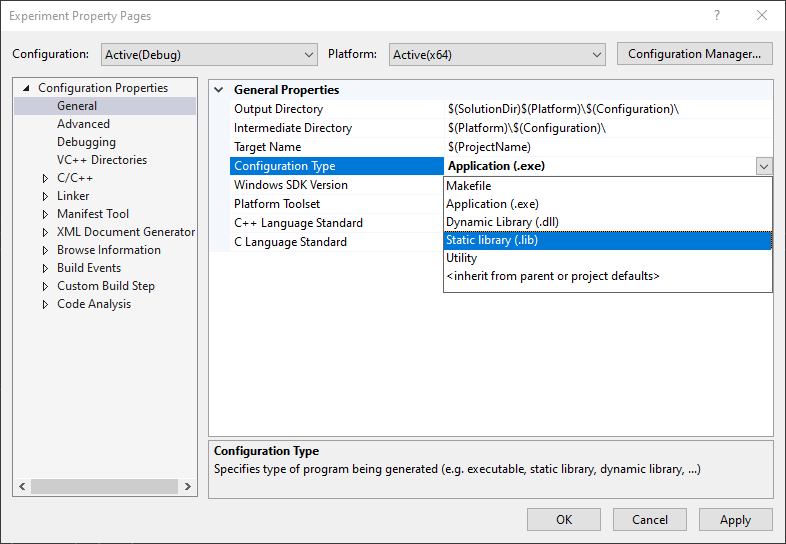
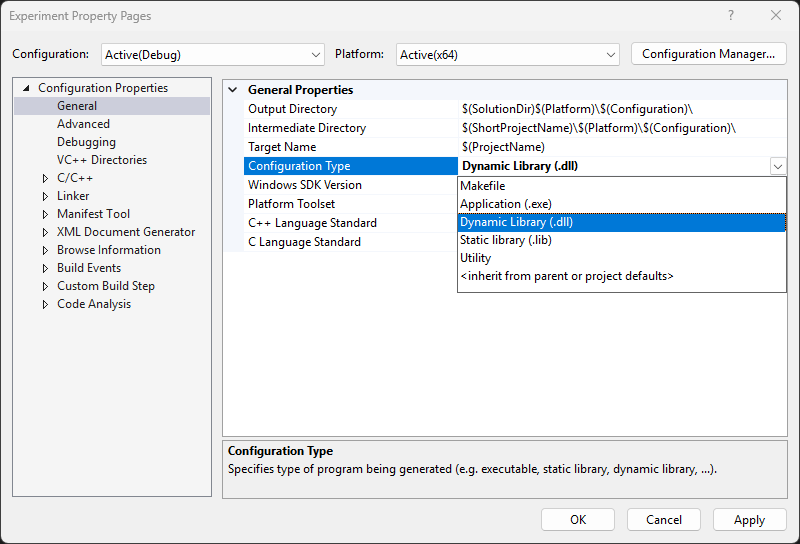
Update DLL.md

diff --git a/DLL.md b/DLL.md
@@ -11,3 +11,30 @@
 **[정적 링크 라이브러리](https://en.wikipedia.org/wiki/Static_library)**(static-link library; LIB)는 [DLL](#동적-링크-라이브러리)과 마찬가지로 함수, 클래스, 변수 등을 담고 있는 .lib 확장자 모듈읻다. 다만, 빌드 과정 중 [링크 타임](Programming.md#링커) 때 모듈이 프로그램 이미지에 아예 통합되는 차이점이 있다. 빌드된 프로그램은 이미지 크기가 커지겠지만, 라이브러리 파일의 부재나 의존성에 의한 오류를 방지하여 안정성을 높을 수 있다.
 
 한편, DLL 모듈이 한 개 이상의 함수나 변수를 내보낸다면<sup>[[참고](https://learn.microsoft.com/cpp/build/exporting-from-a-dll)]</sup> 빌드 과정에서 [링커](Programming.md#링커)는 단일 .lib 파일을 함께 생성한다: 어떠한 코드도 정의되어 있지 않으며, 단순히 내보내진 함수 및 변수의 심볼 목록이 나열된 매우 작은 파일이다. 해당 DLL의 심볼을 참조하는 타 프로그램을 빌드할 시, 링커는 .lib 파일을 단순히 참조한 외부 심볼이 어느 DLL에 있는지 파악하는 단서로써 활용한다.
+
+
+## DLL 프로그래밍
+DLL의 일부 동작 원리를 이해하기 위해서는 이에 대한 프로그래밍 관련 내용을 함께 살펴본다. [Visual Studio](https://visualstudio.microsoft.com/)의 일환인 [DUMPBIN](https://learn.microsoft.com/cpp/build/reference/dumpbin-reference) 도구는 실행 프로그램 및 DLL 파일의 정보를 보여주는 데 유용하기 때문에 활용해 보는 걸 적극 권장한다.
+
+아래는 Visual Studio 프로젝트에서 소스 코드를 DLL 모듈로 빌드하기 위해 필요한 설정을 보여준다.
+
+![Visual Studio에서 DLL 빌드를 위한 프로젝트 설정](./images/visual_studio_library.png)
+
+## .edata 섹션
+**[.edata 섹션](https://learn.microsoft.com/windows/win32/debug/pe-format#the-edata-section-image-only)**(export data section)은 동적 링크로 다른 프로그램이 접근할 수 있도록 DLL이 노출한 [심볼](Symbol.md) 정보들이 담겨있다. 흔히 [`__declspec(dllexport)`](https://learn.microsoft.com/en-us/cpp/build/exporting-from-a-dll-using-declspec-dllexport) 키워드와 함께 선언된 변수, 함수 프로토타입, 또는 C++ 클래스가 해당한다. [Export Address Table](https://learn.microsoft.com/en-us/windows/win32/debug/pe-format#export-address-table)은 내보내진 심볼들을 알파벳 순서대로 순번(ordinal)과 함께 나열하고 이들의 RVA는 다음 둘 중 한 가지 방법으로 안내한다.
+
+<table style="table-layout: fixed; width: 80%; margin-left: auto; margin-right: auto;"><caption style="caption-side: top;">Export Address Table의 RVA<sup>†</sup> 유형</caption><colgroup><col style="width: 50%;"/><col style="width: 50%;"/></colgroup><thead><tr><th style="text-align: center;">Export RVA</th><th style="text-align: center;">Forwarder RVA</th></tr></thead><tbody><tr style="text-align: center;"><td>.edata 섹션 범위 밖의 주소를 가리킨다.</td><td>.edata 섹션 범위 안의 주소를 가리킨다.</td></tr><tr><td>DLL에 정의된 변수, 함수, 클래스 등의 코드가 위치한 상대적 주소</td><td><a href="https://learn.microsoft.com/en-us/windows/win32/debug/pe-format#export-name-table">Export Name Table</a>에 명시된 심볼명 문자열을 가리키는 포인터가 위치한 상대적 주소</td></tr></tbody></table>
+
+<sup>_† RVA(relative virtual address)는 모듈이 가상 주소 공간에 매핑되었을 때 "BaseImage + RVA", 즉 DLL 이미지의 기반 주소로부터 상대적 거리를 제시하여 가상 주소를 찾아갈 수 있도록 한다._</sup>
+
+Export 섹션에서 심볼을 내보내기 위해서 Export Address Table는 반드시 필요한 존재이다; 심볼에 순번을 매기는 건 기본적인 구조이다. 반면, Export Name Table은 심볼을 이름으로 탐색하기 위한 선택 사항이며, 이를 활용하기 위해서는 아래 두 테이블의 도움이 필요하다.
+
+> Export Name Table은 private 심볼을 내보낼 때는 다른 이름의 public 심볼로 명명할 수 있으며, 뿐만 아니라 타 DLL의 심볼로 안내하는 포워딩에 활용된다.
+
+* [Export Name Pointer Table](https://learn.microsoft.com/en-us/windows/win32/debug/pe-format#export-name-pointer-table): Export Name Table의 심볼명 문자열로 가리키는 포인터를 저장하며, 이진 검색을 허용하기 위해 심볼의 알파벳 순서로 나열한다.
+* [Export Ordinal Table](https://learn.microsoft.com/en-us/windows/win32/debug/pe-format#export-ordinal-table): Export Name Pointer Table의 포인터와 동일한 인덱스에 해당 심볼의 순번을 저장한다. <sub><i>(Biased ordinal = Ordinal - Ordinal base)</i></sub>
+
+두 배열은 한 쌍을 이루어 병행으로 동작하지만, 이렇게 나누어서 관리하는 이유는 "자연스러운" [데이터 정렬](Memory.md#데이터-정렬)을 유지하기 위해서이다.
+
+## .idata 섹션
+**[.idata 섹션](https://learn.microsoft.com/windows/win32/debug/pe-format#the-idata-section)**(import data section)은 프로그램이 실행될 때 동적 링크로 불러와야 할 DLL 모듈과 각각 참조된 심볼들을 목록이 담겨있다. C 표준의 [`extern`](C.md#변수) 키워드로 심볼들을 불러올 수 있지만, [`__declspec(dllimport)`](https://learn.microsoft.com/en-us/cpp/build/importing-into-an-application-using-declspec-dllimport) 키워드로 선언하면 약간 더 효율적인 코드를 컴파일한다.
